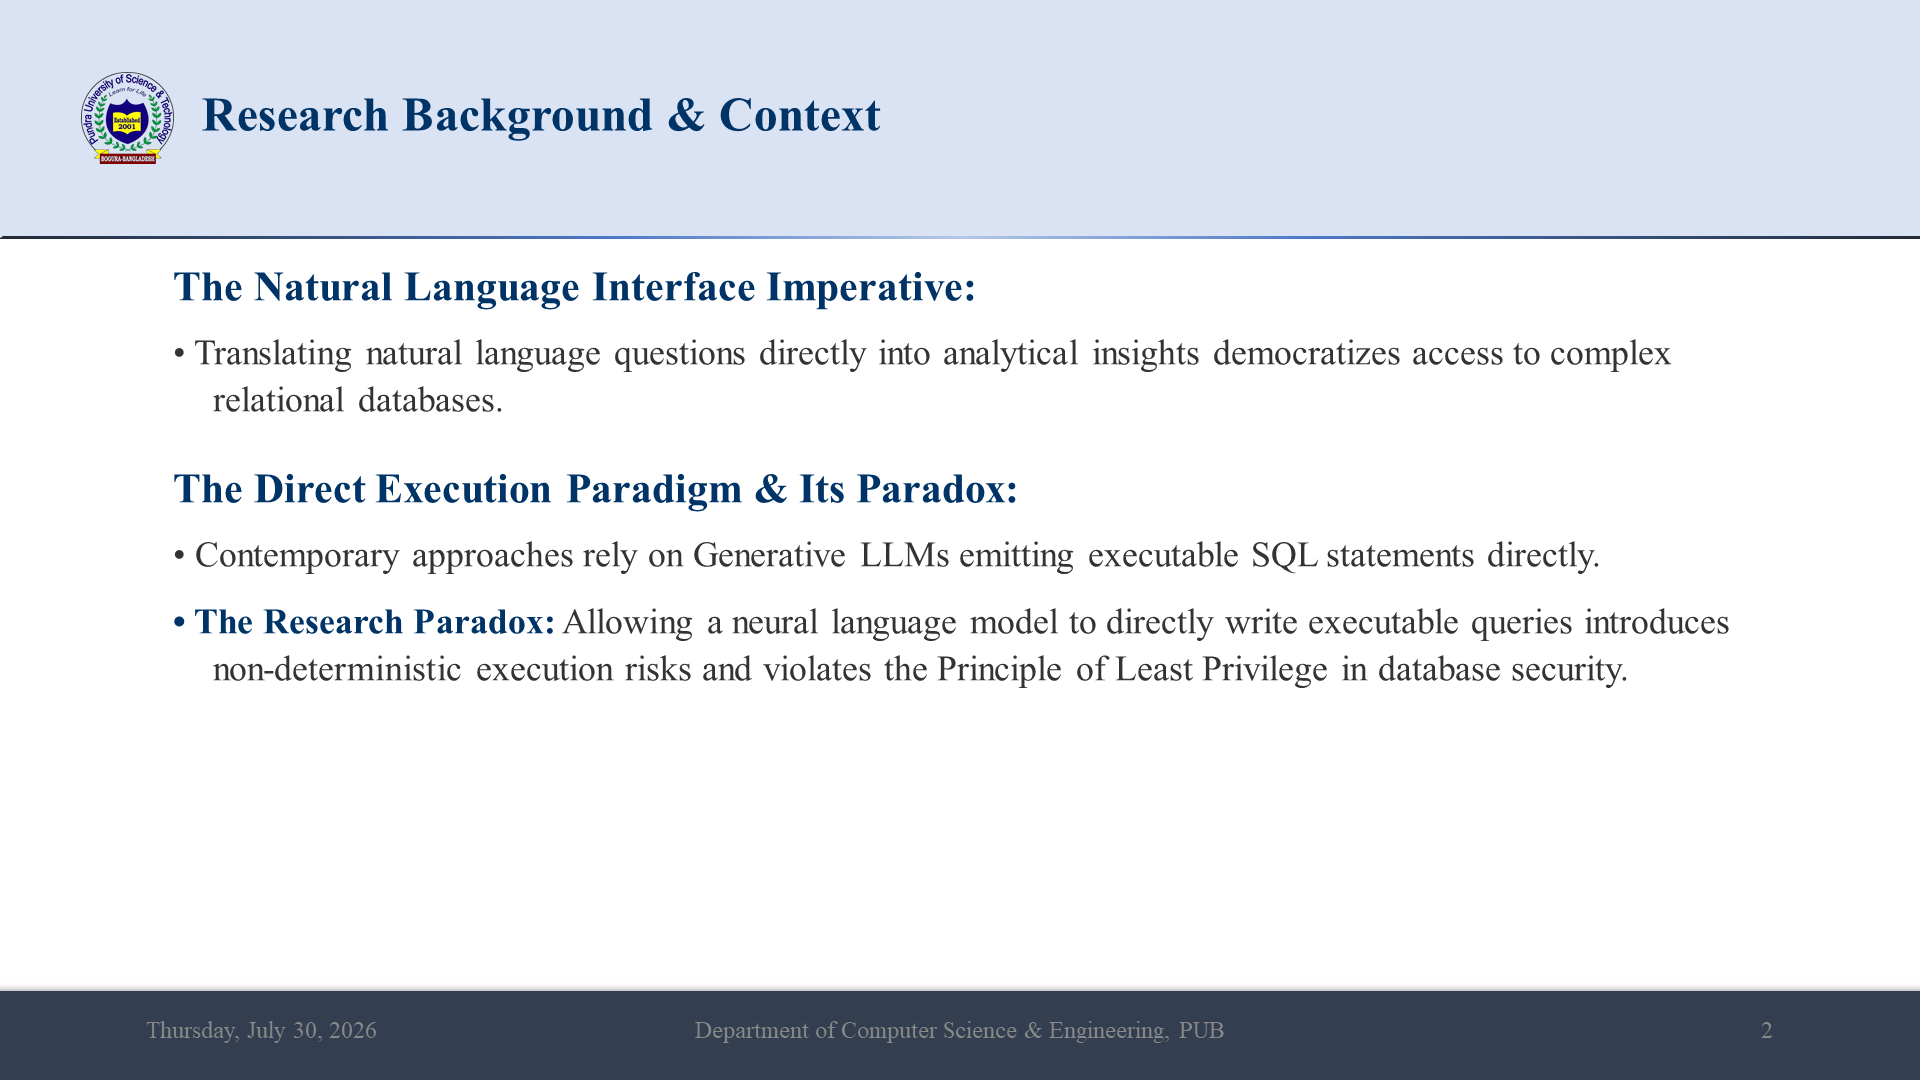
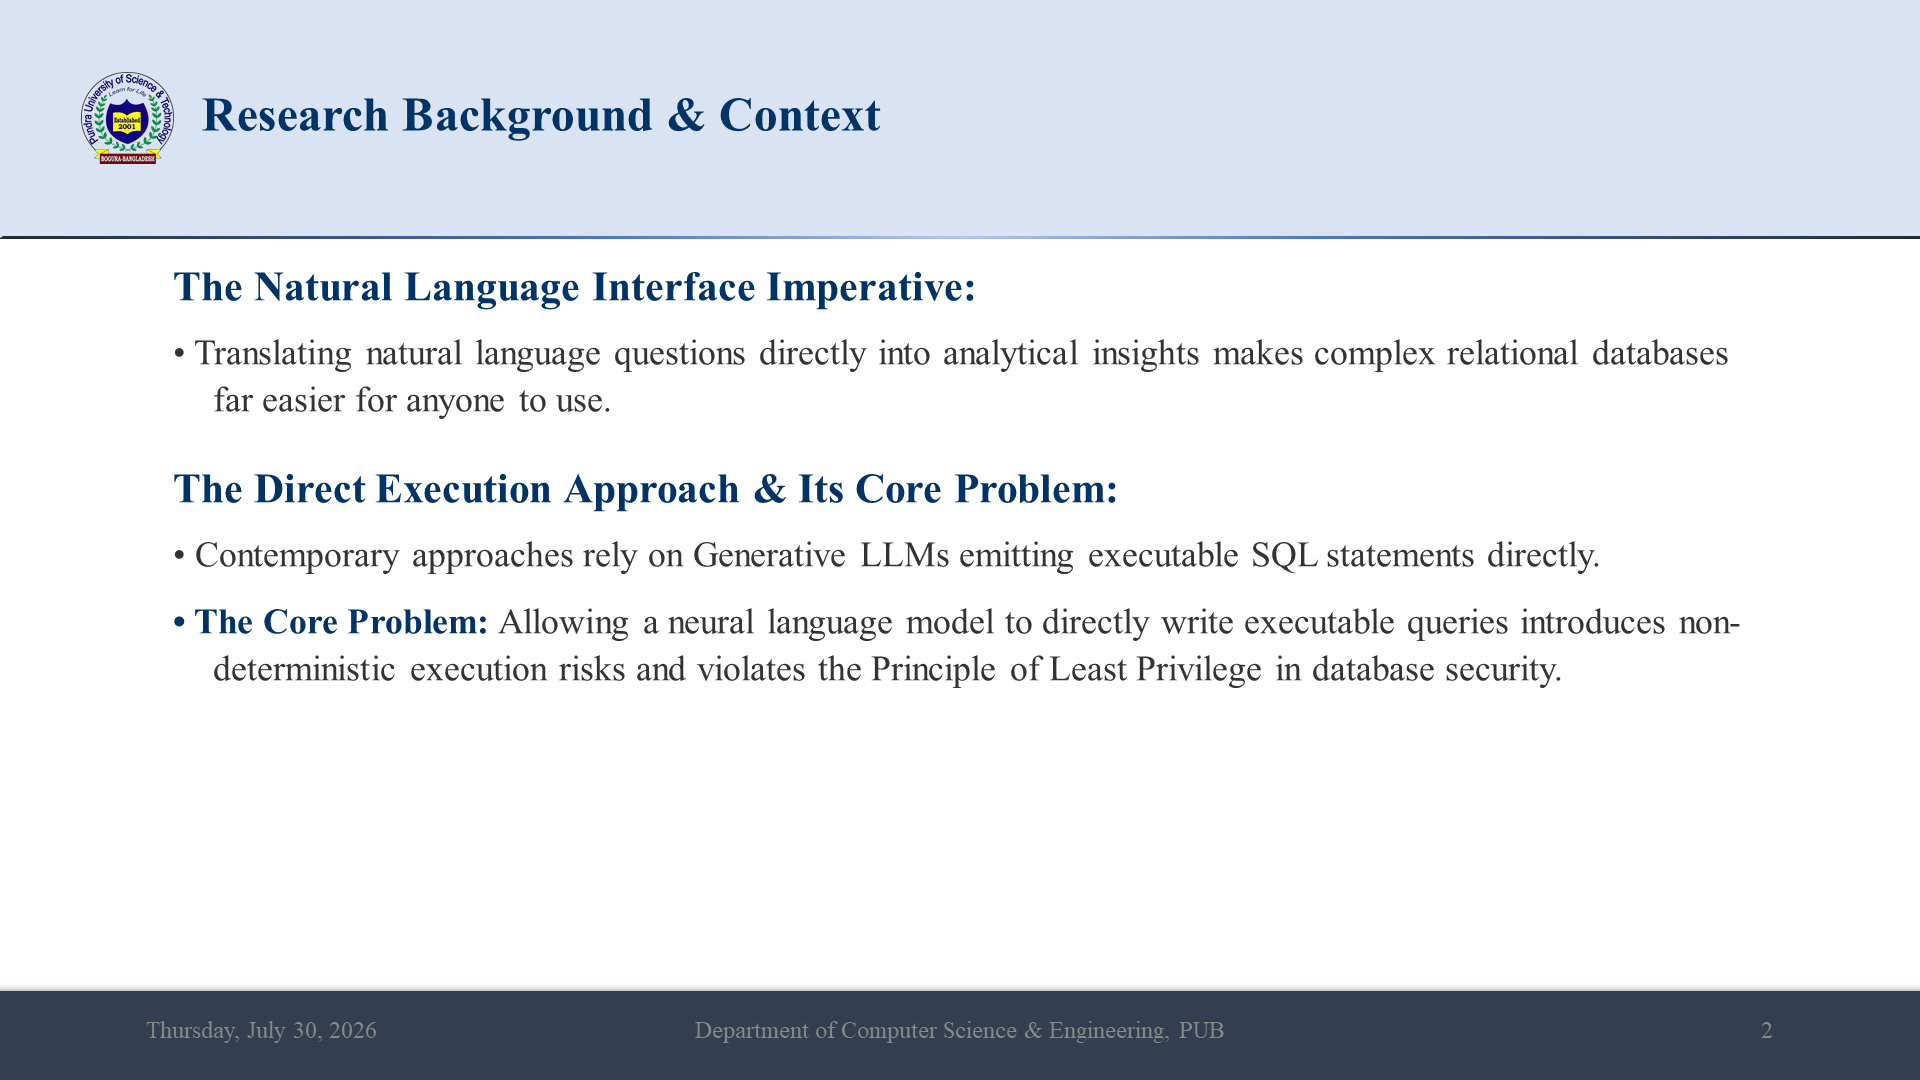
fix(presentation): swap hard/uncommon words for plainer ones
Scanned all slide text (titles, body, notes) for vocabulary that
reads as unnaturally advanced for how a student would actually talk,
following on from the earlier fix to "exhibit":

- "democratizes" -> "makes ... far easier for anyone to use/reach"
- "paradox" -> "problem" ("Its Paradox" -> "Its Core Problem", "The
  Research Paradox:" -> "The Core Problem:")
- "Vulnerability Taxonomy" -> "Vulnerability Types" (slide title)
- "instantiates" -> "builds" (semantic layer notes aside)
- "Auditable Vocabulary" -> "Checkable Vocabulary"; "Auditability
  becomes easy" -> "Checking the system's behavior becomes easy"
- "whitelist taxonomies defined" -> "whitelists defined"

Left "Auditability" as-is where it's a formal comparison-table column
header (matches the manuscript/EXPLAINER's own table convention) -
only fixed it in flowing narration. Also left "paradigm," "governance,"
and "formalize" alone since those are standard, common vocabulary in
this specific research domain, not filler academic prose.

Regenerated the .pptx and re-rendered the four visually-affected slides.

diff --git a/docs/scripts/generate_riaz_presentation.py b/docs/scripts/generate_riaz_presentation.py
@@ -317,15 +317,15 @@ def create_presentation():
     # -------------------------------------------------------------
     s2 = add_content_slide(
         "Research Background & Context",
-        notes="Relational databases hold the data organizations need for decisions, but writing SQL is a real barrier for non-technical users. Natural language interfaces try to close that gap - if a user can just ask a question in plain English and get an answer, that democratizes access to the data. The problem is how current systems close that gap: most let a large language model generate the SQL directly. I call this the direct execution paradigm, and it creates a paradox - the same flexibility that makes an LLM good at understanding language makes it unpredictable as a query author. Letting a probabilistic model write executable queries introduces non-deterministic execution risk and violates the principle of least privilege in database security. That tension is the starting point for this thesis."
+        notes="Relational databases hold the data organizations need for decisions, but writing SQL is a real barrier for non-technical users. Natural language interfaces try to close that gap - if a user can just ask a question in plain English and get an answer, that makes the data much easier for anyone to reach. The problem is how current systems close that gap: most let a large language model generate the SQL directly. I call this the direct execution approach, and it creates a real problem - the same flexibility that makes an LLM good at understanding language makes it unpredictable as a query author. Letting a probabilistic model write executable queries introduces non-deterministic execution risk and violates the principle of least privilege in database security. That tension is the starting point for this thesis."
     )
-    add_bullet_text(s2, "The Natural Language Interface Imperative:\n• Translating natural language questions directly into analytical insights democratizes access to complex relational databases.\n\nThe Direct Execution Paradigm & Its Paradox:\n• Contemporary approaches rely on Generative LLMs emitting executable SQL statements directly.\n• The Research Paradox: Allowing a neural language model to directly write executable queries introduces non-deterministic execution risks and violates the Principle of Least Privilege in database security.", Inches(1.2), Inches(1.8), Inches(11.0), Inches(4.5), font_size=18)
+    add_bullet_text(s2, "The Natural Language Interface Imperative:\n• Translating natural language questions directly into analytical insights makes complex relational databases far easier for anyone to use.\n\nThe Direct Execution Approach & Its Core Problem:\n• Contemporary approaches rely on Generative LLMs emitting executable SQL statements directly.\n• The Core Problem: Allowing a neural language model to directly write executable queries introduces non-deterministic execution risks and violates the Principle of Least Privilege in database security.", Inches(1.2), Inches(1.8), Inches(11.0), Inches(4.5), font_size=18)
 
     # -------------------------------------------------------------
     # SLIDE 3: Problem Statement
     # -------------------------------------------------------------
     s3 = add_content_slide(
-        "Problem Statement & Vulnerability Taxonomy",
+        "Problem Statement & Vulnerability Types",
         notes="To make that risk concrete, I grouped the failure modes of current generative NL-to-SQL systems into three vulnerability classes. First, structural injection risk: adversarial prompt manipulation can bypass the model's instructions and get it to output DML or DDL statements like DROP, DELETE, or UPDATE. Second, unbounded schema hallucination: because the model generates SQL token by token, it can hallucinate joins, relations, or column names that don't exist. Third, access control and context bypass: direct query generation has no natural place to enforce row-level security or multi-tenant boundaries, so it can bypass them entirely. These three classes motivate everything that follows in the architecture."
     )
     add_bullet_text(s3, "Current Generative NL2SQL approaches have 3 structural vulnerability classes:\n\n1. Vulnerability Class I: Structural Injection Risk\n   Adversarial prompt manipulation can bypass model instructions, causing neural models to output data-modifying DML/DDL statements (DROP, DELETE, UPDATE).\n2. Vulnerability Class II: Unbounded Schema Hallucination\n   Probabilistic token generation leads to hallucinated table joins, non-existent entity relations, and invalid column attributes.\n3. Vulnerability Class III: Access Control & Context Bypass\n   Direct query generation bypasses application-level multi-tenant boundaries and row-level security scopes.", Inches(1.2), Inches(1.8), Inches(11.0), Inches(4.5), font_size=16)
@@ -527,9 +527,9 @@ def create_presentation():
     # -------------------------------------------------------------
     s10 = add_content_slide(
         "The Semantic Layer: Closed-Vocabulary Abstraction",
-        notes="The semantic layer is the mechanism behind stages 2 and 3 of the pipeline, and it's really the core theoretical contribution of this thesis. It's built from two finite registries - approved metrics and approved dimensions - so every reachable query becomes a bounded pair from those two registries, never an unconstrained SQL string. Anything outside those registries is structurally invisible to the model - not a coverage gap, that's literally the access-control mechanism. To show how it works: if a user asks for revenue by category, the compiler walks Order to OrderItem to Product to Category; for revenue by country, it walks Order to Address to Country. The relationships are defined once, and the compiler finds the shortest path automatically through graph search. Any term outside the closed vocabulary gets rejected before compilation even starts - enforced by validation, not convention. If the committee asks for concrete numbers: the current nopCommerce prototype instantiates this with 15 metrics and 34 dimensions across 11 join paths, touching 12 of the schema's 126 tables - the other 114 are system, CMS, and permission tables with no analytics relevance, so their exclusion is the access-control mechanism working exactly as the formal model predicts, not a coverage limitation."
+        notes="The semantic layer is the mechanism behind stages 2 and 3 of the pipeline, and it's really the core theoretical contribution of this thesis. It's built from two finite registries - approved metrics and approved dimensions - so every reachable query becomes a bounded pair from those two registries, never an unconstrained SQL string. Anything outside those registries is structurally invisible to the model - not a coverage gap, that's literally the access-control mechanism. To show how it works: if a user asks for revenue by category, the compiler walks Order to OrderItem to Product to Category; for revenue by country, it walks Order to Address to Country. The relationships are defined once, and the compiler finds the shortest path automatically through graph search. Any term outside the closed vocabulary gets rejected before compilation even starts - enforced by validation, not convention. If the committee asks for concrete numbers: the current nopCommerce prototype builds this with 15 metrics and 34 dimensions across 11 join paths, touching 12 of the schema's 126 tables - the other 114 are system, CMS, and permission tables with no analytics relevance, so their exclusion is the access-control mechanism working exactly as the formal model predicts, not a coverage limitation."
     )
-    add_bullet_text(s10, "The Research Contribution: A Bounded, Auditable Vocabulary\n• Two finite registries, approved metrics (M) and dimensions (D), replace direct schema access; every reachable query is a bounded (metric, dimension) pair, never an unconstrained SQL string.\n• Anything outside these registries is structurally invisible to the model - not a coverage gap, but the actual mechanism by which unauthorized access is prevented by construction.\n\nHow a Question Becomes a Join Path:\n• Revenue by category: Order -> OrderItem -> Product -> Category\n• Revenue by country: Order -> Address -> Country\n• Table relationships are defined once; the compiler finds the shortest path for any (metric, dimension) pair automatically via graph search.\n\nSecurity Boundary Enforcement:\n• Any term outside the closed vocabulary is rejected before query compilation - enforced by validation, not by convention.", Inches(1.2), Inches(1.8), Inches(11.0), Inches(4.5), font_size=16)
+    add_bullet_text(s10, "The Research Contribution: A Bounded, Checkable Vocabulary\n• Two finite registries, approved metrics (M) and dimensions (D), replace direct schema access; every reachable query is a bounded (metric, dimension) pair, never an unconstrained SQL string.\n• Anything outside these registries is structurally invisible to the model - not a coverage gap, but the actual mechanism by which unauthorized access is prevented by construction.\n\nHow a Question Becomes a Join Path:\n• Revenue by category: Order -> OrderItem -> Product -> Category\n• Revenue by country: Order -> Address -> Country\n• Table relationships are defined once; the compiler finds the shortest path for any (metric, dimension) pair automatically via graph search.\n\nSecurity Boundary Enforcement:\n• Any term outside the closed vocabulary is rejected before query compilation - enforced by validation, not by convention.", Inches(1.2), Inches(1.8), Inches(11.0), Inches(4.5), font_size=16)
 
     # -------------------------------------------------------------
     # SLIDE 12: Threat Model
@@ -576,7 +576,7 @@ def create_presentation():
     # -------------------------------------------------------------
     s_cmp = add_content_slide(
         "AEGIS vs. Direct LLM-to-SQL: A Structural Comparison",
-        notes="A natural question at this point is: why not just use a more capable model and let it write SQL directly? The honest answer is that a stronger model probably would write better SQL more often - AEGIS isn't competing on that axis. It optimizes for a different set of properties. Query flexibility is bounded rather than unlimited, but the safety guarantee becomes structural rather than probabilistic. Metric consistency is enforced by the semantic layer rather than depending on how someone phrases a prompt. Auditability becomes easy - you inspect a fixed set of metrics and dimensions rather than every generated query. Permission enforcement is built in rather than external. And cost per query is lower, because you don't need a frontier model. So the choice isn't which system is smarter - it's which properties matter for the deployment context, and for institutional reporting, I'd argue structural guarantees matter more."
+        notes="A natural question at this point is: why not just use a more capable model and let it write SQL directly? The honest answer is that a stronger model probably would write better SQL more often - AEGIS isn't competing on that axis. It optimizes for a different set of properties. Query flexibility is bounded rather than unlimited, but the safety guarantee becomes structural rather than probabilistic. Metric consistency is enforced by the semantic layer rather than depending on how someone phrases a prompt. Checking the system's behavior becomes easy - you inspect a fixed set of metrics and dimensions rather than every generated query. Permission enforcement is built in rather than external. And cost per query is lower, because you don't need a frontier model. So the choice isn't which system is smarter - it's which properties matter for the deployment context, and for institutional reporting, I'd argue structural guarantees matter more."
     )
     table_shape_cmp = s_cmp.shapes.add_table(7, 3, Inches(1.2), Inches(1.7), Inches(10.9), Inches(4.6))
     table_cmp = table_shape_cmp.table
@@ -640,7 +640,7 @@ def create_presentation():
         ["Literature Review & Gap Analysis", "100%", "Comprehensive review across NLIDBs, text-to-SQL, visualization, and semantic layers"],
         ["Problem Definition & Vulnerability Framing", "100%", "Formalization of 3 Vulnerability Classes & RQs"],
         ["Conceptual Architecture Design", "100%", "7-Stage Decoupled Pipeline & Threat Model"],
-        ["Closed Semantic Layer Specification", "80%", "Metric & Dimension whitelist taxonomies defined"],
+        ["Closed Semantic Layer Specification", "80%", "Metric & Dimension whitelists defined"],
         ["Prototype & AST Compiler Implementation", "70%", "JSON Intent Extractor & BFS Join Compiler built"],
         ["Experimental Evaluation & Benchmarking", "40%", "100 test query suite & injection cases prepared"],
         ["Thesis Writing & Dissertation Draft", "50%", "Drafted background, literature review, & design chapters"]
